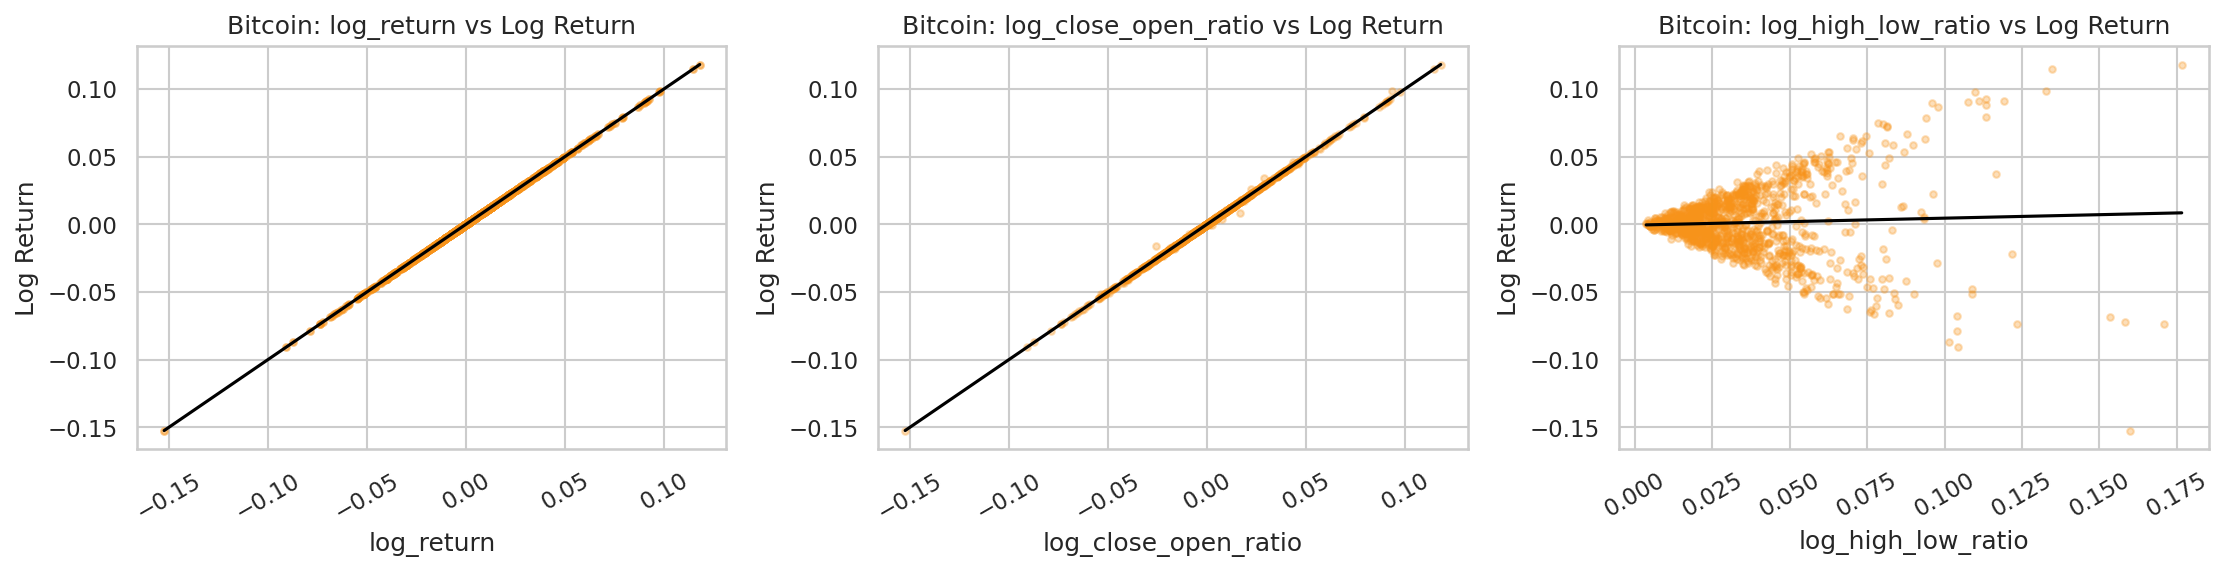
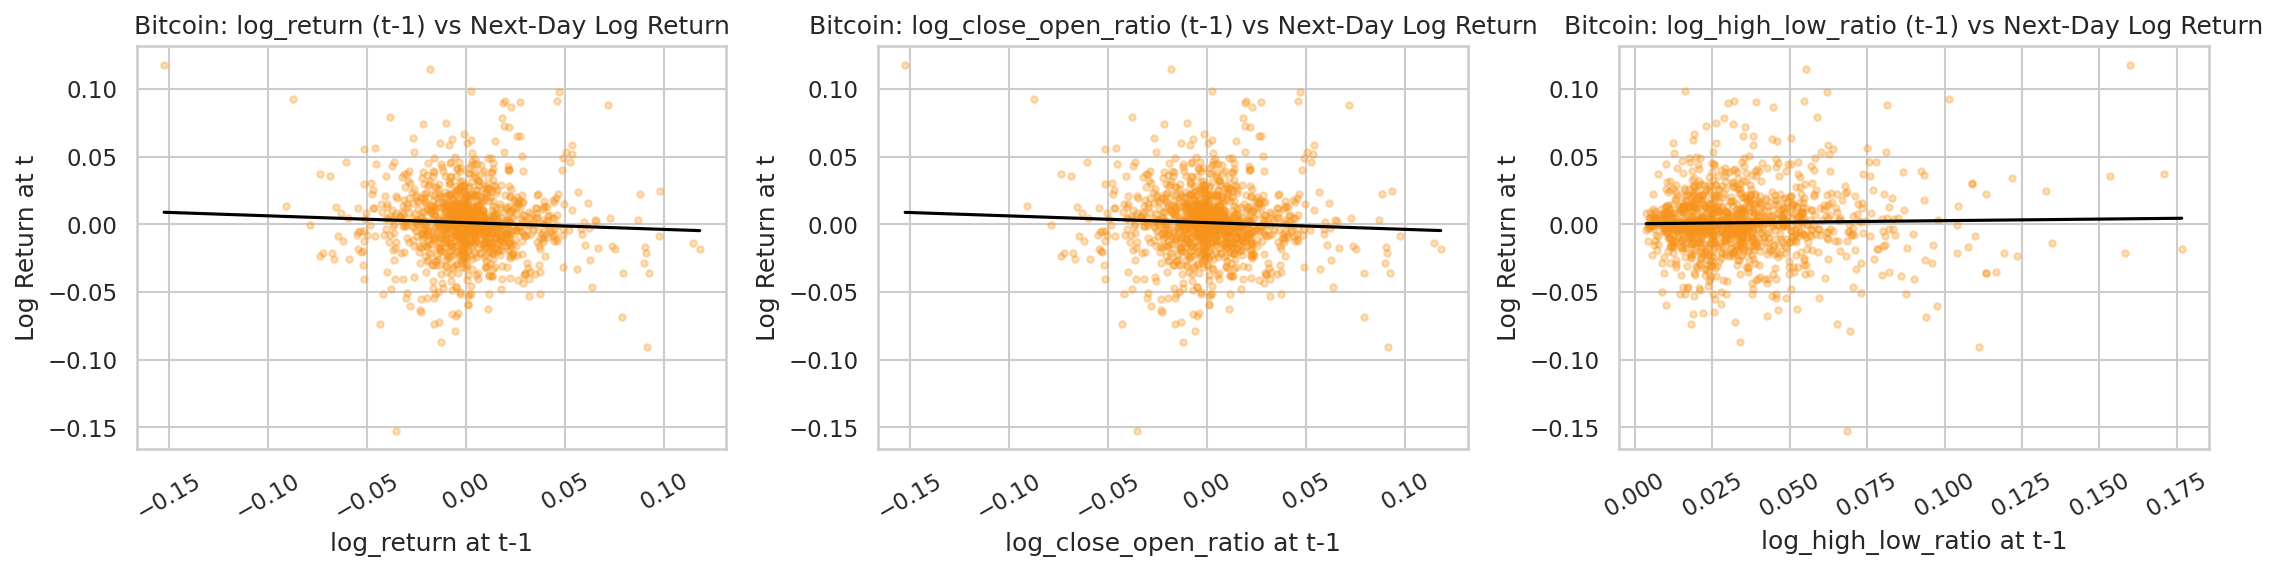
Changes on Scatterplot, wrong values displayed on x axis

diff --git a/src/coinmarket_eda.py b/src/coinmarket_eda.py
@@ -23,6 +23,7 @@ import matplotlib.pyplot as plt
 import numpy as np
 import pandas as pd
 import seaborn as sns
+from scipy import stats
 
 # ---------------------------------------------------------------------------
 # Constants
@@ -439,6 +440,9 @@ def plot_lag_correlation(coin: str, df: pd.DataFrame, images_dir: str) -> pd.Ser
 
     Correlation method: Pearson, which is mathematically equivalent to
     point-biserial correlation when the target variable is binary (0/1).
+    P-values are computed via scipy.stats.pearsonr (two-tailed t-test,
+    t = r * sqrt(n-2) / sqrt(1-r^2)) and printed to stdout as a
+    significance table (* p<0.05, ** p<0.01, ns = not significant).
 
     Args:
         coin:       Coin name for the plot title and filename.
@@ -454,9 +458,35 @@ def plot_lag_correlation(coin: str, df: pd.DataFrame, images_dir: str) -> pd.Ser
     lag_df["target"] = df["price_direction"].shift(-1)
     lag_df = lag_df.dropna()
 
-    lag_corr = lag_df[LAG_FEATURE_COLS].corrwith(lag_df["target"]).sort_values(
-        key=abs, ascending=False
-    )
+    # Compute Pearson r and two-tailed p-value for each feature.
+    # Pearson correlation is mathematically equivalent to point-biserial
+    # correlation when the target is binary, so no special test is needed.
+    r_vals = {}
+    p_vals = {}
+    for feat in LAG_FEATURE_COLS:
+        r, p = stats.pearsonr(lag_df[feat], lag_df["target"])
+        r_vals[feat] = r
+        p_vals[feat] = p
+
+    # Sort by absolute correlation descending (same ordering as before)
+    lag_corr = pd.Series(r_vals).sort_values(key=abs, ascending=False)
+
+    # Print significance table to stdout
+    print(f"\n{coin} — Lag-1 Pearson Correlation with Next-Day Price Direction")
+    print(f"  n = {len(lag_df)},  95% significance threshold: p < 0.05")
+    print(f"  {'Feature':<28} {'r':>8} {'p-value':>10}  sig")
+    print("  " + "-" * 55)
+    for feat in lag_corr.index:
+        r = r_vals[feat]
+        p = p_vals[feat]
+        if p < 0.01:
+            sig = "**"
+        elif p < 0.05:
+            sig = "*"
+        else:
+            sig = "ns"
+        print(f"  {feat:<28} {r:>8.4f} {p:>10.4f}  {sig}")
+
     bar_colors = ["#2ecc71" if v >= 0 else "#e74c3c" for v in lag_corr.values]
 
     plt.figure(figsize=(8, 5))
@@ -473,7 +503,10 @@ def plot_lag_correlation(coin: str, df: pd.DataFrame, images_dir: str) -> pd.Ser
 
 def plot_top_indicator_scatter(coin: str, df: pd.DataFrame,
                                 lag_corr: pd.Series, images_dir: str) -> None:
-    """Scatter plots of the top-3 lag-1 indicators vs log_return.
+    """Scatter plots of the top-3 lag-1 indicators vs next-day log_return.
+
+    X-axis: indicator value at day t-1 (the predictor).
+    Y-axis: log_return at day t (the outcome being predicted).
 
     Indicators are ranked by absolute Pearson correlation with next-day
     price direction. Each subplot includes a linear regression line.
@@ -492,9 +525,13 @@ def plot_top_indicator_scatter(coin: str, df: pd.DataFrame,
     fig, axes = plt.subplots(1, 3, figsize=(15, 4))
     for ax, indicator in zip(axes, top3):
         col = str(indicator)
-        plot_df = df[[col, "log_return"]].dropna().reset_index(drop=True)
+        # Use the indicator from t-1 and next-day log_return as the outcome
+        plot_df = pd.DataFrame({
+            col: df[col].values[:-1],
+            "next_log_return": df["log_return"].values[1:],
+        }).dropna().reset_index(drop=True)
         x_vals = plot_df[col].to_numpy(dtype=float).ravel()
-        y_vals = plot_df["log_return"].to_numpy(dtype=float).ravel()
+        y_vals = plot_df["next_log_return"].to_numpy(dtype=float).ravel()
 
         ax.scatter(x_vals, y_vals, alpha=0.3, color=COLORS[coin], s=10)
 
@@ -502,9 +539,9 @@ def plot_top_indicator_scatter(coin: str, df: pd.DataFrame,
         x_line = np.linspace(x_vals.min(), x_vals.max(), 100)
         ax.plot(x_line, np.polyval(coeffs, x_line), color="black", linewidth=1.5)
 
-        ax.set_title(f"{coin}: {col} vs Log Return")
-        ax.set_xlabel(col)
-        ax.set_ylabel("Log Return")
+        ax.set_title(f"{coin}: {col} (t-1) vs Next-Day Log Return")
+        ax.set_xlabel(f"{col} at t-1")
+        ax.set_ylabel("Log Return at t")
         ax.tick_params(axis="x", rotation=30)
 
     slug = coin.lower().replace(" ", "_")
@@ -556,6 +593,16 @@ def analyze_autocorrelation(datasets: dict, images_dir: str) -> None:
 
         acf_vals = [returns.autocorr(lag=k) for k in range(1, MAX_LAG + 1)]
         lags = list(range(1, MAX_LAG + 1))
+
+        # Print lag-1 ACF result with significance verdict
+        acf_lag1 = acf_vals[0]
+        sig_lag1 = "significant" if abs(acf_lag1) > conf_band else "not significant"
+        print(f"\n{coin} — Autocorrelation of Log Return")
+        print(f"  n = {n},  95% confidence band: ±{conf_band:.4f}")
+        print(f"  Lag-1 ACF: {acf_lag1:.4f}  ({sig_lag1} at 95% level)")
+        sig_count = sum(1 for v in acf_vals if abs(v) > conf_band)
+        print(f"  Lags 1–{MAX_LAG} with |ACF| > band: {sig_count} of {MAX_LAG}")
+
         # Highlight bars that exceed the confidence band in red
         bar_colors = ["#e74c3c" if abs(v) > conf_band else "#95a5a6" for v in acf_vals]
 
